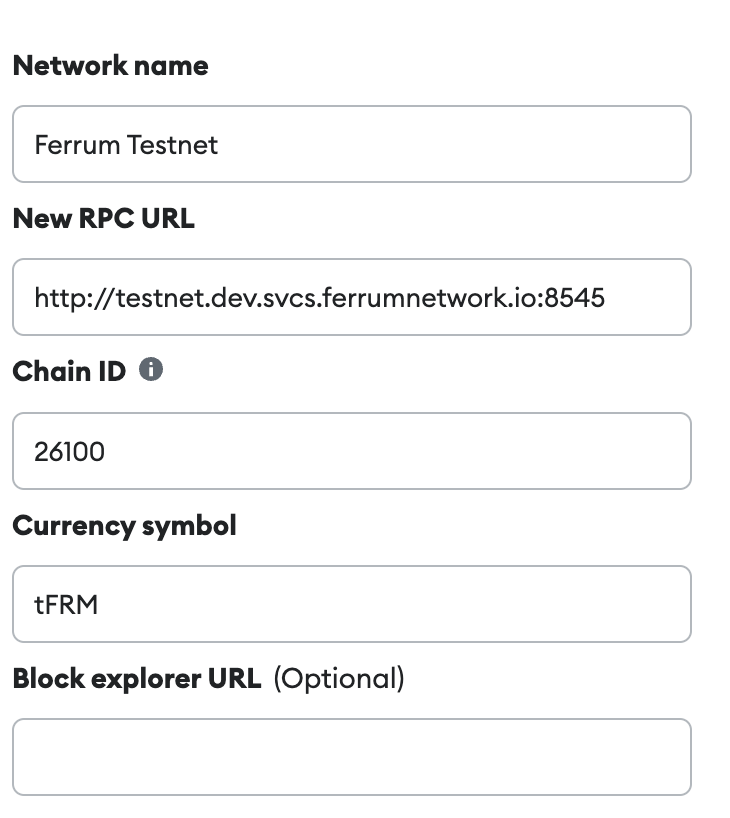
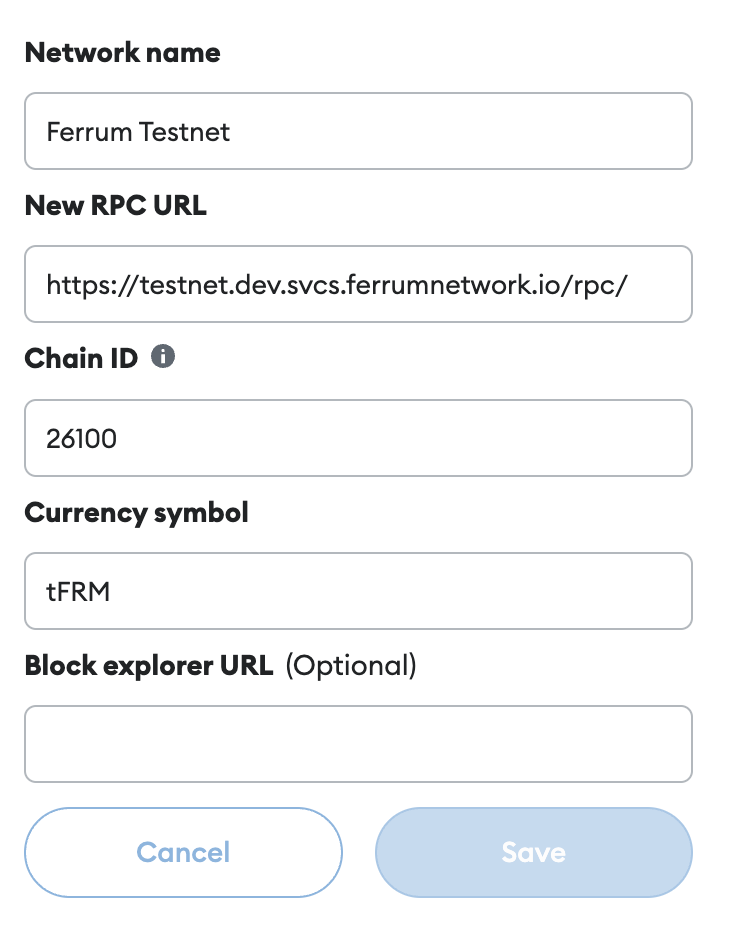
update rpc url for testnet

diff --git a/docs/getting-started.md b/docs/getting-started.md
@@ -24,7 +24,7 @@ To connect your metamask to Ferrum network, use the below configuration
 ```
 Network Name : Ferrum Testnet
 
-RPC URL : http://testnet.dev.svcs.ferrumnetwork.io:8545
+RPC URL : https://testnet.dev.svcs.ferrumnetwork.io/rpc/
 
 ChainId : 26100
 
